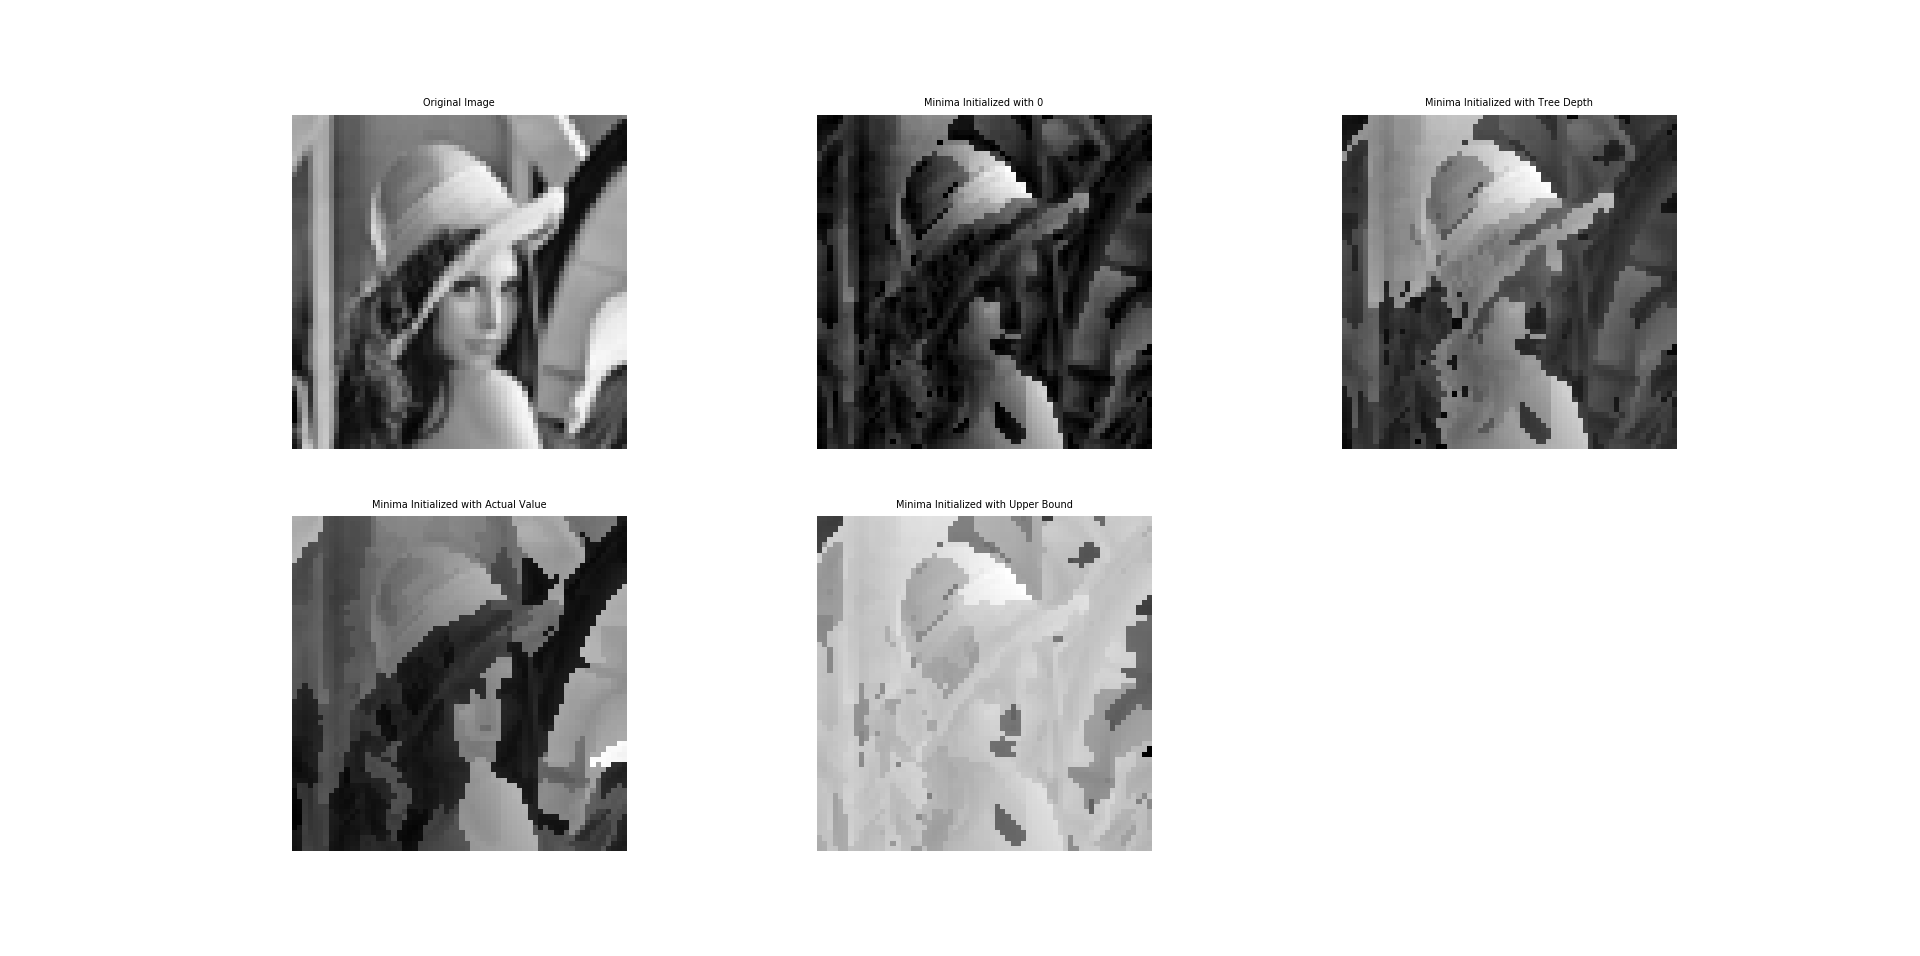
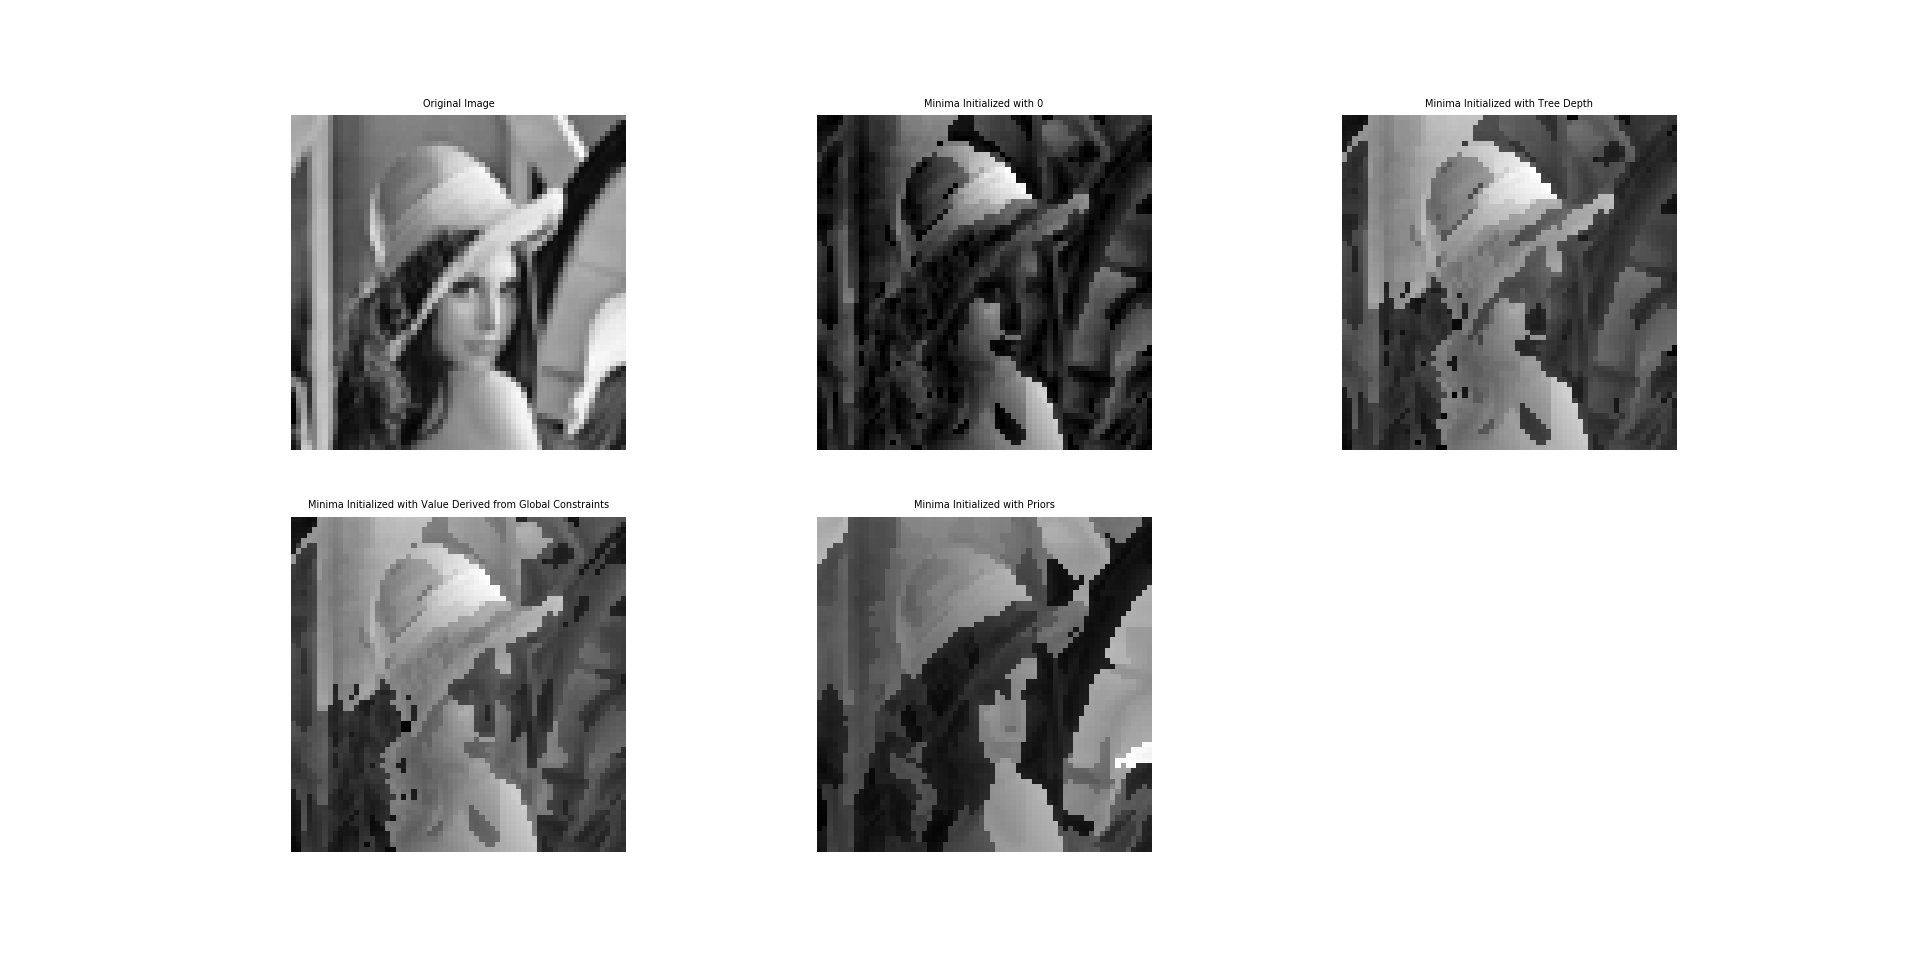
Added Maxima Variations and Fixed Changes in Minima

diff --git a/MaximaVariations.py b/MaximaVariations.py
@@ -124,9 +124,11 @@ def GenerateImageVariations_Maxima(image):
     maxForest_L4_Parallel = []
     for index, maxTree in enumerate(maxForest_Parallel):
         maxDepth = []
+        maxDepthNodeID = []
         rootNodeID = -1
         for key in maxTree.keys():
             maxDepth.append(maxTree[key][0][1])
+            maxDepthNodeID.append(maxTree[key][0][0])
             if maxTree[key][0][0] == 0:
                 rootNodeID = key
 
@@ -135,12 +137,21 @@ def GenerateImageVariations_Maxima(image):
         # with root node initialzed to actual value of the minima.
         pprint(maxTree)
         pprint(rootNodeID)
-        # We are subtracting 255 because root of the tree is initialized with 255 and at the depth of the true will be a value equal to 255 - depth of the tree
-        treeDepth = 255 - min(maxDepth)
-        rootValueFromTreeDepth = min(maxDepth)
         stepSize = 1
+
+        # We are taking the min value because at the depth of the true will be a value equal to 255 - depth Since we initialize the root with 255 and decrement with -1 at each step
+        rootValueFromTreeDepth = min(maxDepth)
+
+
+        # We take the node ID of the Pixel at the Depth of the tree and get it's subsequent index in the image and use the value from pass 1 images, this will be minima value
+        # influenced from the global constraints
+        treeDepth_Ind = np.argmin(maxDepth)
+        treeDepthNodeID = maxDepthNodeID[treeDepth_Ind]
+        rootValueFromPass1Image = pass1_Image_Maxima[plateutree[treeDepthNodeID][0]]
+
+        # we take the root node id and take it's subsequent index in the image and use the value from original image
         maximaActualValue = plateutreeVal[rootNodeID]
-        MaxValueforMinima  = (255/stepSize) - abs(treeDepth - maximaActualValue)
+
 
         maxTree_L2 = copy.deepcopy(maxTree)
         maxTree_L3 = copy.deepcopy(maxTree)
@@ -148,42 +159,42 @@ def GenerateImageVariations_Maxima(image):
 
         # Initializing the tree root with the Max Depth Value
         maxTree_L2[rootNodeID][0][1] = rootValueFromTreeDepth
-        maxTree_L2 = UpdateTreeDepth_Minima(rootNodeID, maxTree_L2)
+        maxTree_L2 = UpdateTreeDepth_Maxima(rootNodeID, maxTree_L2)
         maxForest_L2_Parallel.append(maxTree_L2)
 
-        # Initializing the tree root with the Actual Value of Minima
-        maxTree_L3[rootNodeID][0][1] = maximaActualValue
-        maxTree_L3 = UpdateTreeDepth_Minima(rootNodeID, maxTree_L3)
+        # Initializing the tree root with the Value Derived from Global Constraints
+        maxTree_L3[rootNodeID][0][1] = rootValueFromPass1Image
+        maxTree_L3 = UpdateTreeDepth_Maxima(rootNodeID, maxTree_L3)
         maxForest_L3_Parallel.append(maxTree_L3)
 
-        # Initializing the tree root with the Value derived from Depth, Actual Minima and Step Size
-        maxTree_L4[rootNodeID][0][1] = MaxValueforMinima
-        maxTree_L4 = UpdateTreeDepth_Minima(rootNodeID, maxTree_L4, stepSize)
+        # Initializing the tree root with the Actual Value of Maxima
+        maxTree_L4[rootNodeID][0][1] = maximaActualValue
+        maxTree_L4 = UpdateTreeDepth_Maxima(rootNodeID, maxTree_L4, stepSize)
         maxForest_L4_Parallel.append(maxTree_L4)
 
     #################### Code for Image Generation _L2 #################
     start_time = time.time()
 
-    PassImages_L2 = CreateImageFromTree_Minima(maxForest_L2_Parallel, row, col, plateutree)
-    pass2_Image_Minima = PassImages_L2[0]
-    pass2_LevelImage_Minima = PassImages_L2[1]
+    PassImages_L2 = CreateImageFromTree_Maxima(maxForest_L2_Parallel, row, col, plateutree)
+    pass2_Image_Maxima = PassImages_L2[0]
+    pass2_LevelImage_Maxima = PassImages_L2[1]
 
-    pprint(pass2_Image_Minima)
-    pprint(pass2_LevelImage_Minima)
+    pprint(pass2_Image_Maxima)
+    pprint(pass2_LevelImage_Maxima)
 
-    PassImages_L3 = CreateImageFromTree_Minima(maxForest_L3_Parallel, row, col, plateutree)
-    pass3_Image_Minima = PassImages_L3[0]
-    pass3_LevelImage_Minima = PassImages_L3[1]
+    PassImages_L3 = CreateImageFromTree_Maxima(maxForest_L3_Parallel, row, col, plateutree)
+    pass3_Image_Maxima = PassImages_L3[0]
+    pass3_LevelImage_Maxima = PassImages_L3[1]
 
-    pprint(pass3_Image_Minima)
-    pprint(pass3_LevelImage_Minima)
+    pprint(pass3_Image_Maxima)
+    pprint(pass3_LevelImage_Maxima)
 
-    PassImages_L4 = CreateImageFromTree_Minima(maxForest_L4_Parallel, row, col, plateutree)
-    pass4_Image_Minima = PassImages_L4[0]
-    pass4_LevelImage_Minima = PassImages_L4[1]
+    PassImages_L4 = CreateImageFromTree_Maxima(maxForest_L4_Parallel, row, col, plateutree)
+    pass4_Image_Maxima = PassImages_L4[0]
+    pass4_LevelImage_Maxima = PassImages_L4[1]
 
-    pprint(pass4_Image_Minima)
-    pprint(pass4_LevelImage_Minima)
+    pprint(pass4_Image_Maxima)
+    pprint(pass4_LevelImage_Maxima)
 
     TotalParallelExecutionTime = TotalParallelExecutionTime + ((time.time() - start_time))
 
@@ -191,7 +202,7 @@ def GenerateImageVariations_Maxima(image):
     start_time = time.time()
 
     originalLBP = GenerateLBPImage(image, NEIGHBORS)
-    pass1LBP = GenerateLBPImage(pass1_Image_Minima, NEIGHBORS)
+    pass1LBP = GenerateLBPImage(pass1_Image_Maxima, NEIGHBORS)
 
     if ((originalLBP == pass1LBP).all()):
         print("Success L1 generated")
@@ -204,7 +215,7 @@ def GenerateImageVariations_Maxima(image):
     start_time = time.time()
 
     originalLBP = GenerateLBPImage(image, NEIGHBORS)
-    pass2LBP = GenerateLBPImage(pass2_Image_Minima, NEIGHBORS)
+    pass2LBP = GenerateLBPImage(pass2_Image_Maxima, NEIGHBORS)
 
     if ((originalLBP == pass2LBP).all()):
         print("Success L2 generated")
@@ -212,7 +223,7 @@ def GenerateImageVariations_Maxima(image):
         print("Failure L2 generated")
 
 
-    return [pass1_Image_Minima, pass2_Image_Minima, pass3_Image_Minima, pass4_Image_Minima]
+    return [pass1_Image_Maxima, pass2_Image_Maxima, pass3_Image_Maxima, pass4_Image_Maxima]
 
 
 
@@ -224,12 +235,12 @@ print(image)
 lena = scipy.misc.imread('lena.png', mode='F')
 image = scipy.misc.imresize(lena, (64, 64))
 
-ImgLst = GenerateImageVariations_Minima(image)
+ImgLst = GenerateImageVariations_Maxima(image)
 
-pass1_Image_Minima=ImgLst[0]
-pass2_Image_Minima=ImgLst[1]
-pass3_Image_Minima=ImgLst[2]
-pass4_Image_Minima=ImgLst[3]
+pass1_Image_Maxima=ImgLst[0]
+pass2_Image_Maxima=ImgLst[1]
+pass3_Image_Maxima=ImgLst[2]
+pass4_Image_Maxima=ImgLst[3]
 
 imageLabel = 1
 
@@ -243,24 +254,24 @@ ax.set_axis_off()
 ax.imshow(image, cmap=mpl.cm.gray)
 
 ax = plt.subplot(232)
-ax.set_title("Minima Initialized with 0", fontsize=7)
+ax.set_title("Maxima Initialized with 0", fontsize=7)
 ax.set_axis_off()
-ax.imshow(pass1_Image_Minima, cmap=mpl.cm.gray)
+ax.imshow(pass1_Image_Maxima, cmap=mpl.cm.gray)
 
 ax = plt.subplot(233)
-ax.set_title("Minima Initialized with Tree Depth", fontsize=7)
+ax.set_title("Maxima Initialized with Tree Depth", fontsize=7)
 ax.set_axis_off()
-ax.imshow(pass2_Image_Minima, cmap=mpl.cm.gray)
+ax.imshow(pass2_Image_Maxima, cmap=mpl.cm.gray)
 
 ax = plt.subplot(234)
-ax.set_title("Minima Initialized with Actual Value", fontsize=7)
+ax.set_title("Maxima Initialized with Actual Value", fontsize=7)
 ax.set_axis_off()
-ax.imshow(pass3_Image_Minima, cmap=mpl.cm.gray)
+ax.imshow(pass3_Image_Maxima, cmap=mpl.cm.gray)
 
 ax = plt.subplot(235)
-ax.set_title("Minima Initialized with Upper Bound", fontsize=7)
+ax.set_title("Maxima Initialized with Upper Bound", fontsize=7)
 ax.set_axis_off()
-ax.imshow(pass4_Image_Minima, cmap=mpl.cm.gray)
+ax.imshow(pass4_Image_Maxima, cmap=mpl.cm.gray)
 
 
 plt.show()

diff --git a/MinimaVariations.py b/MinimaVariations.py
@@ -138,17 +138,19 @@ def GenerateImageVariations_Minima(image):
         pprint(minTree)
         pprint(rootNodeID)
         stepSize = 1
+
         # We are taking the max value because at the depth of the true will be a value equal to depth Since we initialize the root with 0 and increment with +1 at each step
-        treeDepth = max(maxDepth)
         rootValueFromTreeDepth = max(maxDepth)
 
+        # We take the node ID of the Pixel at the Depth of the tree and get it's subsequent index in the imaege and use the value from pass 1 images, this will be minima value
+        # influenced from the global constraints
         treeDepth_Ind = np.argmax(maxDepth)
         treeDepthNodeID = maxDepthNodeID[treeDepth_Ind]
-
         rootValueFromPass1Image = pass1_Image_Minima[plateutree[treeDepthNodeID][0]]
 
+        # we take the root node id and take it's subsequent index in the image and use the value from original image
         minimaActualValue = plateutreeVal[rootNodeID]
-        MaxValueforMinima  = (255/stepSize) - abs(treeDepth-minimaActualValue)
+
 
         minTree_L2 = copy.deepcopy(minTree)
         minTree_L3 = copy.deepcopy(minTree)
@@ -159,13 +161,13 @@ def GenerateImageVariations_Minima(image):
         minTree_L2 = UpdateTreeDepth_Minima(rootNodeID, minTree_L2)
         minForest_L2_Parallel.append(minTree_L2)
 
-        # Initializing the tree root with the Actual Value of Minima
-        minTree_L3[rootNodeID][0][1] = minimaActualValue
+        # Initializing the tree root with the Value Derived from Global Constraints
+        minTree_L3[rootNodeID][0][1] = rootValueFromPass1Image
         minTree_L3 = UpdateTreeDepth_Minima(rootNodeID, minTree_L3)
         minForest_L3_Parallel.append(minTree_L3)
 
-        # Initializing the tree root with the Value derived from Depth, Actual Minima and Step Size
-        minTree_L4[rootNodeID][0][1] = MaxValueforMinima
+        # Initializing the tree root with the Actual Value of Minima
+        minTree_L4[rootNodeID][0][1] = minimaActualValue
         minTree_L4 = UpdateTreeDepth_Minima(rootNodeID, minTree_L4, stepSize)
         minForest_L4_Parallel.append(minTree_L4)
 
@@ -229,8 +231,8 @@ print(type(image))
 print(image.shape)
 print(image)
 
-#lena = scipy.misc.imread('lena.png', mode='F')
-#image = scipy.misc.imresize(lena, (64, 64))
+lena = scipy.misc.imread('lena.png', mode='F')
+image = scipy.misc.imresize(lena, (64, 64))
 
 ImgLst = GenerateImageVariations_Minima(image)
 
@@ -261,12 +263,12 @@ ax.set_axis_off()
 ax.imshow(pass2_Image_Minima, cmap=mpl.cm.gray)
 
 ax = plt.subplot(234)
-ax.set_title("Minima Initialized with Actual Value", fontsize=7)
+ax.set_title("Minima Initialized with Value Derived from Global Constraints", fontsize=7)
 ax.set_axis_off()
 ax.imshow(pass3_Image_Minima, cmap=mpl.cm.gray)
 
 ax = plt.subplot(235)
-ax.set_title("Minima Initialized with Upper Bound", fontsize=7)
+ax.set_title("Minima Initialized with Priors", fontsize=7)
 ax.set_axis_off()
 ax.imshow(pass4_Image_Minima, cmap=mpl.cm.gray)
 
